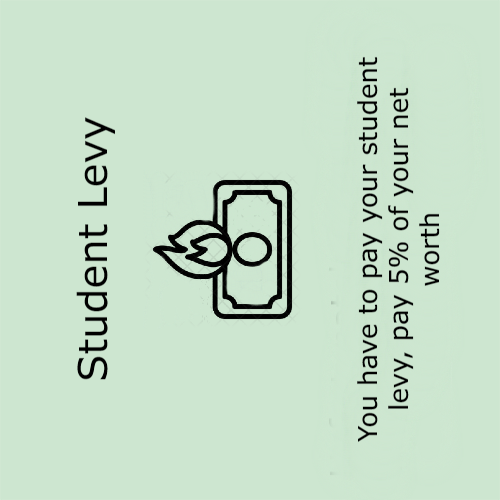
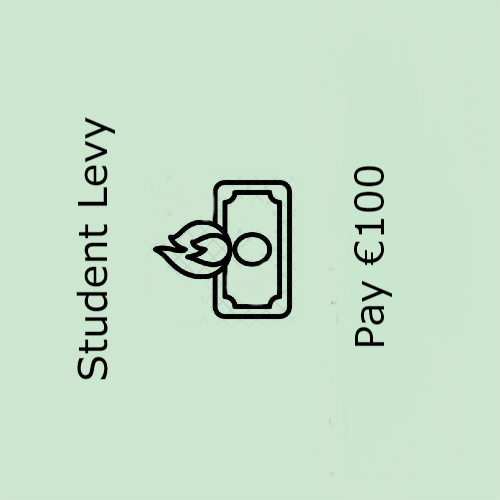
changes

Changed region(s): [[0.69, 0.12, 0.9, 0.9]]

diff --git a/monopoly/static/js/monopoly.js b/monopoly/static/js/monopoly.js
@@ -34,17 +34,6 @@ function Card(text, action) {
 	this.action = action;
 }
 
-function corrections() {
-	document.getElementById("cell1name").textContent = "Henry";
-
-	// Add images to enlarges.
-	document.getElementById("enlarge5token").innerHTML += '<img src="images/train_icon.png" height="60" width="65" alt="" style="position: relative; bottom: 20px;" />';
-	document.getElementById("enlarge15token").innerHTML += '<img src="images/train_icon.png" height="60" width="65" alt="" style="position: relative; top: -20px;" />';
-	document.getElementById("enlarge25token").innerHTML += '<img src="images/train_icon.png" height="60" width="65" alt="" style="position: relative; top: -20px;" />';
-	document.getElementById("enlarge35token").innerHTML += '<img src="images/train_icon.png" height="60" width="65" alt="" style="position: relative; top: -20px;" />';
-	document.getElementById("enlarge12token").innerHTML += '<img src="images/electric_icon.png" height="60" width="48" alt="" style="position: relative; top: -20px;" />';
-	document.getElementById("enlarge28token").innerHTML += '<img src="images/water_icon.png" height="60" width="78" alt="" style="position: relative; top: -20px;" />';
-}
 
 function utiltext() {
 	return '&nbsp;&nbsp;&nbsp;&nbsp;If one "Utility" is owned rent is 4 times amount shown on dice.<br /><br />&nbsp;&nbsp;&nbsp;&nbsp;If both "Utilitys" are owned rent is 10 times amount shown on dice.';
@@ -71,60 +60,60 @@ function citytax() {
 var square = [];
 
 square[0] = new Square("GO", "COLLECT $200 SALARY AS YOU PASS.", "#FFFFFF");
-square[1] = new Square("Henry", "$60", "#8B4513", 60, 3, 2, 10, 30, 90, 160, 250);
+square[1] = new Square("Henry Grattan Building", "$60", "#8B4513", 60, 3, 2, 10, 30, 90, 160, 250);
 square[2] = new Square("Community Chest", "FOLLOW INSTRUCTIONS ON TOP CARD", "#FFFFFF");
-square[3] = new Square("Baltic Avenue", "$60", "#8B4513", 60, 3, 4, 20, 60, 180, 320, 450);
-square[4] = new Square("City Tax", "Pay $200", "#FFFFFF");
-square[5] = new Square("Reading Railroad", "$200", "#FFFFFF", 200, 1);
-square[6] = new Square("Oriental Avenue", "$100", "#87CEEB", 100, 4, 6, 30, 90, 270, 400, 550);
+square[3] = new Square("Albert College", "$60", "#8B4513", 60, 3, 4, 20, 60, 180, 320, 450);
+square[4] = new Square("Registration Fees", "Pay $200", "#FFFFFF");
+square[5] = new Square("Glasnevin Campus", "$200", "#FFFFFF", 200, 1);
+square[6] = new Square("Hamilton Building", "$100", "#87CEEB", 100, 4, 6, 30, 90, 270, 400, 550);
 square[7] = new Square("Chance", "FOLLOW INSTRUCTIONS ON TOP CARD", "#FFFFFF");
-square[8] = new Square("Vermont Avenue", "$100", "#87CEEB", 100, 4, 6, 30, 90, 270, 400, 550);
-square[9] = new Square("Connecticut Avenue", "$120", "#87CEEB", 120, 4, 8, 40, 100, 300, 450, 600);
+square[8] = new Square("Terence Larkin Building", "$100", "#87CEEB", 100, 4, 6, 30, 90, 270, 400, 550);
+square[9] = new Square("Hampsted", "$120", "#87CEEB", 120, 4, 8, 40, 100, 300, 450, 600);
 square[10] = new Square("Just Visiting", "", "#FFFFFF");
-square[11] = new Square("St. Charles Place", "$140", "#FF0080", 140, 5, 10, 50, 150, 450, 625, 750);
-square[12] = new Square("Electric Company", "$150", "#FFFFFF", 150, 2);
-square[13] = new Square("States Avenue", "$140", "#FF0080", 140, 5, 10, 50, 150, 450, 625, 750);
-square[14] = new Square("Virginia Avenue", "$160", "#FF0080", 160, 5, 12, 60, 180, 500, 700, 900);
-square[15] = new Square("Pennsylvania Railroad", "$200", "#FFFFFF", 200, 1);
-square[16] = new Square("St. James Place", "$180", "#FFA500", 180, 6, 14, 70, 200, 550, 750, 950);
+square[11] = new Square("Larkfield", "$140", "#FF0080", 140, 5, 10, 50, 150, 450, 625, 750);
+square[12] = new Square("Glasnevin Resturant", "$150", "#FFFFFF", 150, 2);
+square[13] = new Square("Invent Building", "$140", "#FF0080", 140, 5, 10, 50, 150, 450, 625, 750);
+square[14] = new Square("NICB Building", "$160", "#FF0080", 160, 5, 12, 60, 180, 500, 700, 900);
+square[15] = new Square("Saint Patricks Campus", "$200", "#FFFFFF", 200, 1);
+square[16] = new Square("Lonsdale Building", "$180", "#FFA500", 180, 6, 14, 70, 200, 550, 750, 950);
 square[17] = new Square("Community Chest", "FOLLOW INSTRUCTIONS ON TOP CARD", "#FFFFFF");
-square[18] = new Square("Tennessee Avenue", "$180", "#FFA500", 180, 6, 14, 70, 200, 550, 750, 950);
-square[19] = new Square("New York Avenue", "$200", "#FFA500", 200, 6, 16, 80, 220, 600, 800, 1000);
+square[18] = new Square("Stokes Building", "$180", "#FFA500", 180, 6, 14, 70, 200, 550, 750, 950);
+square[19] = new Square("Marconi Building", "$200", "#FFA500", 200, 6, 16, 80, 220, 600, 800, 1000);
 square[20] = new Square("Free Parking", "", "#FFFFFF");
-square[21] = new Square("Kentucky Avenue", "$220", "#FF0000", 220, 7, 18, 90, 250, 700, 875, 1050);
+square[21] = new Square("DCU Business School", "$220", "#FF0000", 220, 7, 18, 90, 250, 700, 875, 1050);
 square[22] = new Square("Chance", "FOLLOW INSTRUCTIONS ON TOP CARD", "#FFFFFF");
-square[23] = new Square("Indiana Avenue", "$220", "#FF0000", 220, 7, 18, 90, 250, 700, 875, 1050);
-square[24] = new Square("Illinois Avenue", "$240", "#FF0000", 240, 7, 20, 100, 300, 750, 925, 1100);
-square[25] = new Square("B&O Railroad", "$200", "#FFFFFF", 200, 1);
-square[26] = new Square("Atlantic Avenue", "$260", "#FFFF00", 260, 8, 22, 110, 330, 800, 975, 1150);
-square[27] = new Square("Ventnor Avenue", "$260", "#FFFF00", 260, 8, 22, 110, 330, 800, 975, 1150);
-square[28] = new Square("Water Works", "$150", "#FFFFFF", 150, 2);
-square[29] = new Square("Marvin Gardens", "$280", "#FFFF00", 280, 8, 24, 120, 360, 850, 1025, 1200);
+square[23] = new Square("Inner Faith Centre", "$220", "#FF0000", 220, 7, 18, 90, 250, 700, 875, 1050);
+square[24] = new Square("John & Aileen O'Reilly Library", "$240", "#FF0000", 240, 7, 20, 100, 300, 750, 925, 1100);
+square[25] = new Square("All Hallows Campus", "$200", "#FFFFFF", 200, 1);
+square[26] = new Square("Eswell Building", "$260", "#FFFF00", 260, 8, 22, 110, 330, 800, 975, 1150);
+square[27] = new Square("Healthy Living Centre", "$260", "#FFFF00", 260, 8, 22, 110, 330, 800, 975, 1150);
+square[28] = new Square("On Campus Londis", "$150", "#FFFFFF", 150, 2);
+square[29] = new Square("MacCormac Building", "$280", "#FFFF00", 280, 8, 24, 120, 360, 850, 1025, 1200);
 square[30] = new Square("Go to Jail", "Go directly to Jail. Do not pass GO. Do not collect $200.", "#FFFFFF");
-square[31] = new Square("Pacific Avenue", "$300", "#008000", 300, 9, 26, 130, 390, 900, 1100, 1275);
-square[32] = new Square("North Carolina Avenue", "$300", "#008000", 300, 9, 26, 130, 390, 900, 1100, 1275);
+square[31] = new Square("McNulty Building", "$300", "#008000", 300, 9, 26, 130, 390, 900, 1100, 1275);
+square[32] = new Square("The Pavillion", "$300", "#008000", 300, 9, 26, 130, 390, 900, 1100, 1275);
 square[33] = new Square("Community Chest", "FOLLOW INSTRUCTIONS ON TOP CARD", "#FFFFFF");
-square[34] = new Square("Pennsylvania Avenue", "$320", "#008000", 320, 9, 28, 150, 450, 1000, 1200, 1400);
-square[35] = new Square("Short Line", "$200", "#FFFFFF", 200, 1);
+square[34] = new Square("The Helix", "$320", "#008000", 320, 9, 28, 150, 450, 1000, 1200, 1400);
+square[35] = new Square("DCU Sports Campus", "$200", "#FFFFFF", 200, 1);
 square[36] = new Square("Chance", "FOLLOW INSTRUCTIONS ON TOP CARD", "#FFFFFF");
-square[37] = new Square("Park Place", "$350", "#0000FF", 350, 10, 35, 175, 500, 1100, 1300, 1500);
-square[38] = new Square("LUXURY TAX", "Pay $100", "#FFFFFF");
-square[39] = new Square("Boardwalk", "$400", "#0000FF", 400, 10, 50, 200, 600, 1400, 1700, 2000);
+square[37] = new Square("The SU Building", "$350", "#0000FF", 350, 10, 35, 175, 500, 1100, 1300, 1500);
+square[38] = new Square("Student Levy", "Pay $100", "#FFFFFF");
+square[39] = new Square("The Nu Bar", "$400", "#0000FF", 400, 10, 50, 200, 600, 1400, 1700, 2000);
 
 var communityChestCards = [];
 var chanceCards = [];
 
 communityChestCards[0] = new Card("Get out of Jail, Free. This card may be kept until needed or sold.", function(p) { p.communityChestJailCard = true; updateOwned();});
-communityChestCards[1] = new Card("You have won second prize in a beauty contest. Collect $10.", function() { addamount(10, 'Community Chest');});
-communityChestCards[2] = new Card("From sale of stock, you get $50.", function() { addamount(50, 'Community Chest');});
-communityChestCards[3] = new Card("Life insurance matures. Collect $100.", function() { addamount(100, 'Community Chest');});
-communityChestCards[4] = new Card("Income tax refund. Collect $20.", function() { addamount(20, 'Community Chest');});
-communityChestCards[5] = new Card("Holiday fund matures. Receive $100.", function() { addamount(100, 'Community Chest');});
+communityChestCards[1] = new Card("You have won Mi Soc hotdog eating contest. Collect $10.", function() { addamount(10, 'Community Chest');});
+communityChestCards[2] = new Card("From sale of old college books, you get $50.", function() { addamount(50, 'Community Chest');});
+communityChestCards[3] = new Card("You get SUSI. Collect $100.", function() { addamount(100, 'Community Chest');});
+communityChestCards[4] = new Card("A generous man offers you money to help with tuition. Collect $20.", function() { addamount(20, 'Community Chest');});
+communityChestCards[5] = new Card("You win at Bingo Loco. Receive $100.", function() { addamount(100, 'Community Chest');});
 communityChestCards[6] = new Card("You inherit $100.", function() { addamount(100, 'Community Chest');});
-communityChestCards[7] = new Card("Receive $25 consultancy fee.", function() { addamount(25, 'Community Chest');});
-communityChestCards[8] = new Card("Pay hospital fees of $100.", function() { subtractamount(100, 'Community Chest');});
+communityChestCards[7] = new Card("Receive $25 for helping a mate with a project.", function() { addamount(25, 'Community Chest');});
+communityChestCards[8] = new Card("You threw a party in your dorm. Pay damage fees of $100.", function() { subtractamount(100, 'Community Chest');});
 communityChestCards[9] = new Card("Bank error in your favor. Collect $200.", function() { addamount(200, 'Community Chest');});
-communityChestCards[10] = new Card("Pay school fees of $50.", function() { subtractamount(50, 'Community Chest');});
+communityChestCards[10] = new Card("You have to buy a book for a new module. Pay $50.", function() { subtractamount(50, 'Community Chest');});
 communityChestCards[11] = new Card("Doctor's fee. Pay $50.", function() { subtractamount(50, 'Community Chest');});
 communityChestCards[12] = new Card("It is your birthday. Collect $10 from every player.", function() { collectfromeachplayer(10, 'Community Chest');});
 communityChestCards[13] = new Card("Advance to \"GO\" (Collect $200).", function() { advance(0);});
@@ -134,19 +123,19 @@ communityChestCards[15] = new Card("Go to Jail. Go directly to Jail. Do not pass
 
 chanceCards[0] = new Card("GET OUT OF JAIL FREE. This card may be kept until needed or traded.", function(p) { p.chanceJailCard=true; updateOwned();});
 chanceCards[1] = new Card("Make General Repairs on All Your Property. For each house pay $25. For each hotel $100.", function() { streetrepairs(25, 100);});
-chanceCards[2] = new Card("Speeding fine $15.", function() { subtractamount(15, 'Chance');});
-chanceCards[3] = new Card("You have been elected chairman of the board. Pay each player $50.", function() { payeachplayer(50, 'Chance');});
+chanceCards[2] = new Card("You were late to an exam and were caught speeding. Pay Speeding fine $15.", function() { subtractamount(15, 'Chance');});
+chanceCards[3] = new Card("You have been elected president of the SU. Pay each player $50.", function() { payeachplayer(50, 'Chance');});
 chanceCards[4] = new Card("Go back three spaces.", function() { gobackthreespaces();});
-chanceCards[5] = new Card("ADVANCE TO THE NEAREST UTILITY. IF UNOWNED, you may buy it from the Bank. IF OWNED, throw dice and pay owner a total ten times the amount thrown.", function() { advanceToNearestUtility();});
+chanceCards[5] = new Card("Advance to the nearest utility. If unowned, you may buy it from the Bank. IF OWNED, throw dice and pay owner a total ten times the amount thrown.", function() { advanceToNearestUtility();});
 chanceCards[6] = new Card("Bank pays you dividend of $50.", function() { addamount(50, 'Chance');});
-chanceCards[7] = new Card("ADVANCE TO THE NEAREST RAILROAD. If UNOWNED, you may buy it from the Bank. If OWNED, pay owner twice the rental to which they are otherwise entitled.", function() { advanceToNearestRailroad();});
-chanceCards[8] = new Card("Pay poor tax of $15.", function() { subtractamount(15, 'Chance');});
-chanceCards[9] = new Card("Take a trip to Reading Rail Road. If you pass \"GO\" collect $200.", function() { advance(5);});
-chanceCards[10] = new Card("ADVANCE to Boardwalk.", function() { advance(39);});
-chanceCards[11] = new Card("ADVANCE to Illinois Avenue. If you pass \"GO\" collect $200.", function() { advance(24);});
-chanceCards[12] = new Card("Your building loan matures. Collect $150.", function() { addamount(150, 'Chance');});
-chanceCards[13] = new Card("ADVANCE TO THE NEAREST RAILROAD. If UNOWNED, you may buy it from the Bank. If OWNED, pay owner twice the rental to which they are otherwise entitled.", function() { advanceToNearestRailroad();});
-chanceCards[14] = new Card("ADVANCE to St. Charles Place. If you pass \"GO\" collect $200.", function() { advance(11);});
+chanceCards[7] = new Card("Advance to the nearest campus. If unowned, you may buy it from the Bank. If OWNED, pay owner twice the rental to which they are otherwise entitled.", function() { advanceToNearestRailroad();});
+chanceCards[8] = new Card("You failed an exam. Pay resit fees of $15.", function() { subtractamount(15, 'Chance');});
+chanceCards[9] = new Card("Take a trip to Glasnevin Campus. If you pass \"GO\" collect $200.", function() { advance(5);});
+chanceCards[10] = new Card("Advance to NuBar.", function() { advance(39);});
+chanceCards[11] = new Card("Advance to John and Aileen O'Reilly Libary. If you pass \"GO\" collect $200.", function() { advance(24);});
+chanceCards[12] = new Card("Your crypto investment matures. Collect $150.", function() { addamount(150, 'Chance');});
+chanceCards[13] = new Card("Advance to the nearest railroad. If UNOWNED, you may buy it from the Bank. If OWNED, pay owner twice the rental to which they are otherwise entitled.", function() { advanceToNearestRailroad();});
+chanceCards[14] = new Card("Advance to Larkfield. If you pass \"GO\" collect $200.", function() { advance(11);});
 chanceCards[15] = new Card("Go to Jail. Go Directly to Jail. Do not pass \"GO\". Do not collect $200.", function() { gotojail();});
 
 
@@ -2964,23 +2953,8 @@ window.onload = function() {
 	}
 
 
-	// Add images to enlarges.
-	document.getElementById("enlarge0token").innerHTML += '<img src="static/images/arrow_icon.png" height="40" width="136" alt="" />';
-	document.getElementById("enlarge20price").innerHTML += "<img src='static/images/free_parking_icon.png' height='80' width='72' alt='' style='position: relative; top: -20px;' />";
-	document.getElementById("enlarge38token").innerHTML += '<img src="static/images/tax_icon.png" height="60" width="70" alt="" style="position: relative; top: -20px;" />';
 
-	corrections();
-
-	// Jail corrections
-	$("<div>", {id: "jailpositionholder" }).appendTo("#jail");
-	$("<span>").text("Jail").appendTo("#jail");
-
-	document.getElementById("jail").enlargeId = "enlarge40";
-
-	document.getElementById("enlarge-wrap").innerHTML += "<div id='enlarge40' class='enlarge'><div id='enlarge40color' class='enlarge-color'></div><br /><div id='enlarge40name' class='enlarge-name'>Jail</div><br /><div id='enlarge40price' class='enlarge-price'><img src='static/images/jake_icon.png' height='80' width='80' alt='' style='position: relative; top: -20px;' /></div><br /><div id='enlarge40token' class='enlarge-token'></div></div>";
-
-	document.getElementById("enlarge40name").innerHTML = "Jail";
-
+	
 	// Create event handlers for hovering and draging.
 
 	var drag, dragX, dragY, dragObj, dragTop, dragLeft;

diff --git a/monopoly/templates/index.html b/monopoly/templates/index.html
@@ -102,69 +102,69 @@
 
 	<table id="board">
 		<tr>
-			<td class="cell board-corner" id="cell20"><img id="cell20img" src="static/images/tiles/20.png" width=120 height=102></td>
-			<td class="cell board-top" id="cell21"><img id="cell21img" src="static/images/tiles/21.png" width=102 height=102></td>
-			<td class="cell board-top" id="cell22"><img id="cell22img" src="static/images/tiles/22.png" width=85 height=102></td>
-			<td class="cell board-top" id="cell23"><img id="cell23img" src="static/images/tiles/23.png" width=85 height=102></td>
-			<td class="cell board-top" id="cell24"><img id="cell24img" src="static/images/tiles/24.png" width=85 height=102></td>
-			<td class="cell board-top" id="cell25"><img id="cell25img" src="static/images/tiles/25.png" width=85 height=102></td>
-			<td class="cell board-top" id="cell26"><img id="cell26img" src="static/images/tiles/26.png" width=85 height=102></td>
-			<td class="cell board-top" id="cell27"><img id="cell27img" src="static/images/tiles/27.png" width=85 height=102></td>
-			<td class="cell board-top" id="cell28"><img id="cell28img" src="static/images/tiles/28.png" width=85 height=102></td>
-			<td class="cell board-top" id="cell29"><img id="cell29img" src="static/images/tiles/29.png" width=85 height=102></td>
+			<td class="cell board-corner" id="cell20"><img id="cell20img" src="static/images/tiles/20.png" width=102 height=102></td>
+			<td class="cell board-top" id="cell21"><img id="cell21img" src="static/images/tiles/21.png" width=72 height=102></td>
+			<td class="cell board-top" id="cell22"><img id="cell22img" src="static/images/tiles/22.png" width=72 height=102></td>
+			<td class="cell board-top" id="cell23"><img id="cell23img" src="static/images/tiles/23.png" width=72 height=102></td>
+			<td class="cell board-top" id="cell24"><img id="cell24img" src="static/images/tiles/24.png" width=72 height=102></td>
+			<td class="cell board-top" id="cell25"><img id="cell25img" src="static/images/tiles/25.png" width=72 height=102></td>
+			<td class="cell board-top" id="cell26"><img id="cell26img" src="static/images/tiles/26.png" width=72 height=102></td>
+			<td class="cell board-top" id="cell27"><img id="cell27img" src="static/images/tiles/27.png" width=72 height=102></td>
+			<td class="cell board-top" id="cell28"><img id="cell28img" src="static/images/tiles/28.png" width=72 height=102></td>
+			<td class="cell board-top" id="cell29"><img id="cell29img" src="static/images/tiles/29.png" width=72 height=102></td>
 			<td class="cell board-corner" id="cell30"><img id="cell30img" src="static/images/tiles/30.png" width=102 height=102></td>
 		</tr><tr>
-			<td class="cell board-left" id="cell19"><img id="cell19img" src="static/images/tiles/19.png" width=121 height=74></td>
+			<td class="cell board-left" id="cell19"><img id="cell19img" src="static/images/tiles/19.png" width=102 height=72></td>
 			<td colspan="9" class="board-center"></td>
-			<td class="cell board-right" id="cell31"><img id="cell31img" src="static/images/tiles/31.png" width=121 height=74></td>
+			<td class="cell board-right" id="cell31"><img id="cell31img" src="static/images/tiles/31.png" width=102 height=72></td>
 		</tr><tr>
-			<td class="cell board-left" id="cell18"><img id="cell18img" src="static/images/tiles/18.png" width=121 height=74></td>
+			<td class="cell board-left" id="cell18"><img id="cell18img" src="static/images/tiles/18.png" width=102 height=72></td>
 			<td colspan="9" class="board-center"></td>
-			<td class="cell board-right" id="cell32"><img id="cell32img" src="static/images/tiles/32.png" width=121 height=74></td>
+			<td class="cell board-right" id="cell32"><img id="cell32img" src="static/images/tiles/32.png" width=102 height=72></td>
 		</tr><tr>
-			<td class="cell board-left" id="cell17"><img id="cell17img" src="static/images/tiles/17.png" width=121 height=74></td>
+			<td class="cell board-left" id="cell17"><img id="cell17img" src="static/images/tiles/17.png" width=102 height=72></td>
 			<td colspan="9" class="board-center"></td>
-			<td class="cell board-right" id="cell33"><img id="cell33img" src="static/images/tiles/33.png" width=121 height=74></td>
+			<td class="cell board-right" id="cell33"><img id="cell33img" src="static/images/tiles/33.png" width=102 height=72></td>
 		</tr><tr>
-			<td class="cell board-left" id="cell16"><img id="cell16img" src="static/images/tiles/16.png" width=121 height=74></td>
+			<td class="cell board-left" id="cell16"><img id="cell16img" src="static/images/tiles/16.png" width=102 height=72></td>
 			<td colspan="9" class="board-center"></td>
-			<td class="cell board-right" id="cell34"><img id="cell34img" src="static/images/tiles/34.png" width=121 height=74></td>
+			<td class="cell board-right" id="cell34"><img id="cell34img" src="static/images/tiles/34.png" width=102 height=72></td>
 		</tr><tr>
-			<td class="cell board-left" id="cell15"><img id="cell15img" src="static/images/tiles/15.png" width=121 height=74></td>
+			<td class="cell board-left" id="cell15"><img id="cell15img" src="static/images/tiles/15.png" width=102 height=72></td>
 			<td colspan="9" class="board-center"></td>
-			<td class="cell board-right" id="cell35"><img id="cell35img" src="static/images/tiles/35.png" width=121 height=74></td>
+			<td class="cell board-right" id="cell35"><img id="cell35img" src="static/images/tiles/35.png" width=102 height=72></td>
 		</tr><tr>
-			<td class="cell board-left" id="cell14"><img id="cell14img" src="static/images/tiles/14.png" width=121 height=74></td>
+			<td class="cell board-left" id="cell14"><img id="cell14img" src="static/images/tiles/14.png" width=102 height=72></td>
 			<td colspan="9" class="board-center"></td>
-			<td class="cell board-right" id="cell36"><img id="cell36img" src="static/images/tiles/36.png" width=121 height=74></td>
+			<td class="cell board-right" id="cell36"><img id="cell36img" src="static/images/tiles/36.png" width=102 height=72></td>
 		</tr><tr>
-			<td class="cell board-left" id="cell13"><img id="cell13img" src="static/images/tiles/13.png" width=121 height=74></td>
+			<td class="cell board-left" id="cell13"><img id="cell13img" src="static/images/tiles/13.png" width=102 height=72></td>
 			<td colspan="9" class="board-center"></td>
-			<td class="cell board-right" id="cell37"><img id="cell37img" src="static/images/tiles/37.png" width=121 height=74></td>
+			<td class="cell board-right" id="cell37"><img id="cell37img" src="static/images/tiles/37.png" width=102 height=72></td>
 		</tr><tr>
-			<td class="cell board-left" id="cell12"><img id="cell12img" src="static/images/tiles/12.png" width=121 height=74></td>
+			<td class="cell board-left" id="cell12"><img id="cell12img" src="static/images/tiles/12.png" width=102 height=72></td>
 			<td colspan="9" class="board-center"></td>
-			<td class="cell board-right" id="cell38"><img id="cell38img" src="static/images/tiles/38.png" width=121 height=74></td>
+			<td class="cell board-right" id="cell38"><img id="cell38img" src="static/images/tiles/38.png" width=102 height=72></td>
 		</tr><tr>
-			<td class="cell board-left" id="cell11"><img id="cell11img" src="static/images/tiles/11.png" width=121 height=74></td>
+			<td class="cell board-left" id="cell11"><img id="cell11img" src="static/images/tiles/11.png" width=102 height=72></td>
 			<td colspan="9" class="board-center">
 				<div id="jail"></div>
 			</td>
-			<td class="cell board-right" id="cell39"><img id="cell39img" src="static/images/tiles/39.png" width=121 height=74></td>
+			<td class="cell board-right" id="cell39"><img id="cell39img" src="static/images/tiles/39.png" width=102 height=72></td>
 		</tr><tr>
-			<td class="cell board-corner" id="cell10"><img id="cell10img" src="static/images/tiles/10.png" width=120 height=102></td>
+			<td class="cell board-corner" id="cell10"><img id="cell10img" src="static/images/tiles/10.png" width=102 height=102></td>
 
-			<td class="cell board-bottom" id="cell9"><img id="cell9img" src="static/images/tiles/9.png" width=102 height=102></td>
-			<td class="cell board-bottom" id="cell8"><img id="cell8img" src="static/images/tiles/8.png" width=85 height=102></td>
-			<td class="cell board-bottom" id="cell7"><img id="cell7img" src="static/images/tiles/7.png" width=85 height=102></td>
-			<td class="cell board-bottom" id="cell6"><img id="cell6img" src="static/images/tiles/6.png" width=85 height=102></td>
-			<td class="cell board-bottom" id="cell5"><img id="cell5img" src="static/images/tiles/5.png" width=85 height=102></td>
-			<td class="cell board-bottom" id="cell4"><img id="cell4img" src="static/images/tiles/4.png" width=85 height=102></td>
-			<td class="cell board-bottom" id="cell3"><img id="cell3img" src="static/images/tiles/3.png" width=85 height=102></td>
-			<td class="cell board-bottom" id="cell2"><img id="cell2img" src="static/images/tiles/2.png" width=85 height=102></td>
-			<td class="cell board-bottom" id="cell1"><img id="cell1img" src="static/images/tiles/1.png" width=85 height=102></td>
+			<td class="cell board-bottom" id="cell9"><img id="cell9img" src="static/images/tiles/9.png" width=72 height=102></td>
+			<td class="cell board-bottom" id="cell8"><img id="cell8img" src="static/images/tiles/8.png" width=72 height=102></td>
+			<td class="cell board-bottom" id="cell7"><img id="cell7img" src="static/images/tiles/7.png" width=72 height=102></td>
+			<td class="cell board-bottom" id="cell6"><img id="cell6img" src="static/images/tiles/6.png" width=72 height=102></td>
+			<td class="cell board-bottom" id="cell5"><img id="cell5img" src="static/images/tiles/5.png" width=72 height=102></td>
+			<td class="cell board-bottom" id="cell4"><img id="cell4img" src="static/images/tiles/4.png" width=72 height=102></td>
+			<td class="cell board-bottom" id="cell3"><img id="cell3img" src="static/images/tiles/3.png" width=72 height=102></td>
+			<td class="cell board-bottom" id="cell2"><img id="cell2img" src="static/images/tiles/2.png" width=72 height=102></td>
+			<td class="cell board-bottom" id="cell1"><img id="cell1img" src="static/images/tiles/1.png" width=72 height=102></td>
 
-			<td class="cell board-corner" id="cell0"><img id="cell0img" src="static/images/tiles/0.png" width=120 height=102></td>
+			<td class="cell board-corner" id="cell0"><img id="cell0img" src="static/images/tiles/0.png" width=102 height=102></td>
 		</tr>
 	</table>
 

diff --git a/monopoly/static/css/style.css b/monopoly/static/css/style.css
@@ -990,6 +990,7 @@ td {
 }
 
 .cell-name {
+	font-size: 1px;
 	text-indent: 100%;
     white-space: nowrap;
     overflow: hidden;
